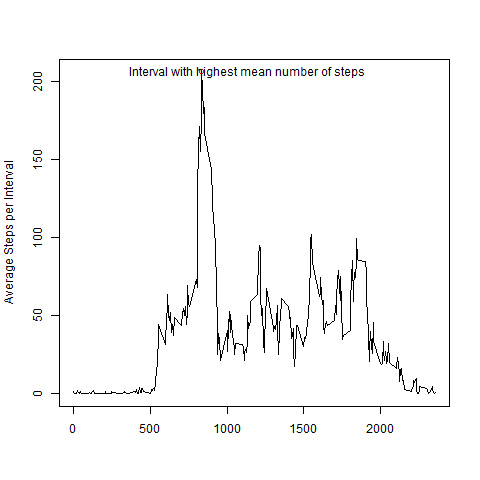
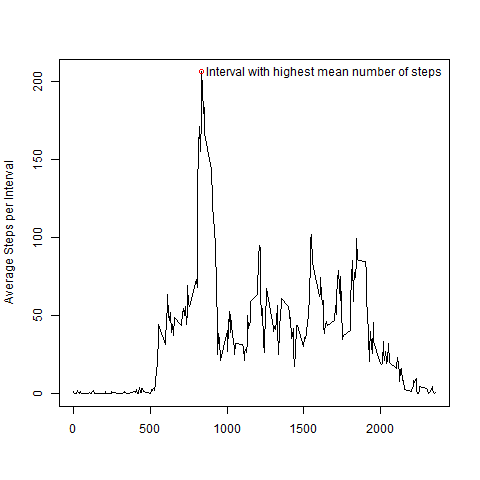
update

Changed region(s): [[0.25, 0.125, 0.9375, 0.1562]]

diff --git a/PA1_template.html b/PA1_template.html
@@ -112,12 +112,17 @@ img {
 
   x &lt;- subset(mydata2,is.na(mydata2$steps))
 
-  mydata3 &lt;- subset(mydata2,!is.na(mydata2$steps))</code></pre>
+  ##count the number of NA values 
+  stepNA &lt;- nrow(x)
+
+  cat(stepNA, &quot; observations are NA step values&quot;)</code></pre>
+<pre><code>## 2304  observations are NA step values</code></pre>
+<pre class="r"><code>  mydata3 &lt;- subset(mydata2,!is.na(mydata2$steps))</code></pre>
 </div>
 <div id="what-is-mean-total-number-of-steps-taken-per-day" class="section level2">
 <h2>What is mean total number of steps taken per day?:</h2>
 <p>Sum the steps by date and calculate the mean and median.</p>
-<p>Note: In the first set of results are shown for only the populated observations.</p>
+<p>Note: In this set of results, only the populated observations are included in plots and calcs.</p>
 <pre class="r"><code>##use data with only populated step data and group by date
 DFGroupDate &lt;- group_by(mydata3, date)
 ##calculate the total for each date
@@ -130,17 +135,17 @@ DFResultDate &lt;- summarise(DFGroupDate,Mean = mean(steps), SUM = as.numeric(su
 <div class="figure">
[1 lines of base64/hex data omitted]
 </div>
+<p>Figure 1. Histogram of total steps per day, with the calculated means and medians below</p>
 <pre class="r"><code>  cat(&quot;The mean daily total = &quot;, round(stepMean))</code></pre>
 <pre><code>## The mean daily total =  10766</code></pre>
 <pre class="r"><code>  cat(&quot;The median daily total = &quot;, round(stepMedian))</code></pre>
 <pre><code>## The median daily total =  10765</code></pre>
-<p>Figure 1. Histogram of total steps per day, with the calculated means and medians</p>
 <pre><code>## png 
 ##   2</code></pre>
 </div>
 <div id="what-is-the-average-daily-activity-pattern" class="section level2">
 <h2>What is the average daily activity pattern?</h2>
-<p>Group the step observations by intervals</p>
+<p>Group the step observations by intervals and calculate the means</p>
 <pre class="r"><code>##use data with only populated step data and group by interval
 
   DFGroupInt&lt;- group_by(mydata3, interval)
@@ -151,24 +156,17 @@ DFResultDate &lt;- summarise(DFGroupDate,Mean = mean(steps), SUM = as.numeric(su
 
 ##identify the interval with the highest mean 
   stepMax &lt;- max(DFResultInt$Mean)
-  stepPoint &lt;- subset(DFResultInt, Mean == stepMax)
-
-##count the number of NA values 
-  stepNA &lt;- nrow(x)
-  #  cat(stepNA, &quot; observations are NA step values&quot;)</code></pre>
-<pre class="r"><code>  par(mar = rep(2, 4))
-
-  plot(x=DFResultInt$interval, y=DFResultInt$Mean, type = &quot;l&quot;, xlab = &quot; &quot;, ylab = &quot;Average Steps per Interval&quot;)
-
-  points(x=stepPoint$interval, y=stepPoint$Mean, col = &quot;red&quot;, type =&quot;p&quot;)
-  text(x=stepPoint$interval + 300, y=stepPoint$Mean,&quot;Interval with highest mean number of steps&quot;)</code></pre>
-<div class="figure">
[1 lines of base64/hex data omitted]
-</div>
-<pre class="r"><code>  cat(&quot;Interval number &quot;, stepPoint$interval, &quot; had the highest mean of &quot;, stepMax)</code></pre>
-<pre><code>## Interval number  835  had the highest mean of  206.1698</code></pre>
+  stepPoint &lt;- subset(DFResultInt, Mean == stepMax)</code></pre>
 <p>Figure 2. The line graph of average steps per interval</p>
-<p>Note:Intervals translate to 5 minute increments using 24:00 clock, eg, 835 = 08:35, 1000 = 10:00, 2350 = 23:50</p>
+<pre class="r"><code>  par(mar = rep(2, 4))
+  plot(x=DFResultInt$interval, y=DFResultInt$Mean, type = &quot;l&quot;, xlab = &quot;Intervals&quot;, ylab = &quot;Average Steps per Interval&quot;)
+    points(x=stepPoint$interval, y=stepPoint$Mean, col = &quot;red&quot;, type =&quot;p&quot;)
+    text(x=stepPoint$interval + 800, y=stepPoint$Mean,&quot;Interval with highest mean number of steps&quot;)</code></pre>
+<div class="figure">
[1 lines of base64/hex data omitted]
+</div>
+<p>Note: Intervals translate to 5 minute increments using the 24:00 clock, eg, 835 = 08:35, 1000 = 10:00, 2350 = 23:50</p>
+<pre><code>## Interval number  835  had the highest mean of  206</code></pre>
 <pre><code>## png 
 ##   2</code></pre>
 </div>
@@ -190,20 +188,30 @@ DFResultDate &lt;- summarise(DFGroupDate,Mean = mean(steps), SUM = as.numeric(su
 
   stepMeanComp &lt;-mean(DFResultDateComp$SUM)
   stepMedianComp &lt;-median(DFResultDateComp$SUM)</code></pre>
-<p>Figure 3.</p>
 <pre><code>## png 
 ##   2</code></pre>
-<pre><code>## Updated results after filling in the data:</code></pre>
+<p>Figure 3. Histogram of total steps per day, with NA values imputed</p>
+<pre class="r"><code>  hist(DFResultDateComp$SUM, xlab = &quot;Number of Steps per Day&quot;, ylab = &quot;Frequency&quot;, col = &quot;red&quot;, main = &quot;Histogram of Daily Step Total (completed data)&quot;)</code></pre>
+<div class="figure">
[1 lines of base64/hex data omitted]
+</div>
+<pre class="r"><code>  cat(&quot;Updated results after imputing missing data:&quot;)</code></pre>
+<pre><code>## Updated results after imputing missing data:</code></pre>
+<pre class="r"><code>  cat(&quot;  The mean daily average = &quot;, round(stepMeanComp))</code></pre>
 <pre><code>##   The mean daily average =  10766</code></pre>
+<pre class="r"><code>  cat(&quot;  The median daily average = &quot;, round(stepMedianComp))</code></pre>
 <pre><code>##   The median daily average =  10766</code></pre>
+<pre class="r"><code>  cat(&quot;  &quot;)</code></pre>
+<pre class="r"><code>  cat(&quot;The difference from prior calcualtions:&quot;)</code></pre>
 <pre><code>## The difference from prior calcualtions:</code></pre>
+<pre class="r"><code>  cat(&quot;  The new mean - prior mean =&quot;, stepMeanComp -stepMean)</code></pre>
 <pre><code>##   The new mean - prior mean = 0</code></pre>
+<pre class="r"><code>  cat(&quot;  The new median - prior median =&quot;, stepMedianComp -stepMedian)</code></pre>
 <pre><code>##   The new median - prior median = 1.188679</code></pre>
 </div>
 <div id="are-there-differences-in-activity-patterns-between-weekdays-and-weekends" class="section level2">
 <h2>Are there differences in activity patterns between weekdays and weekends?:</h2>
 <p>Next the filled in data set is grouped by weekday vs weekend and interval to produce a panel plot comparing the interval averages for weekend vs weekday.</p>
-<p>Figure 4.</p>
 <pre class="r"><code>  DFGroupIntW&lt;- group_by(DFStepsComp, interval, wkdy)
 
   DFResultIntW &lt;- summarise(DFGroupIntW,Mean = mean(steps), SUM = as.numeric(sum(steps)), MAX = as.numeric(max(steps)))
@@ -211,10 +219,12 @@ DFResultDate &lt;- summarise(DFGroupDate,Mean = mean(steps), SUM = as.numeric(su
 library(lattice)</code></pre>
 <pre><code>## png 
 ##   2</code></pre>
+<p>Figure 4. Mean Steps Weekend vs Weekday Intervals</p>
 <pre class="r"><code>xyplot( Mean ~ interval | wkdy, type = 'b', panel = function(x, y) { llines(x=x,y=y) }, data = DFResultIntW, main = &quot;Steps by Interval Weekend vs Weekday&quot;, xlab = &quot;Intervals&quot;, ylab = &quot;Mean Steps per Interval&quot;, layout=(c(1,2)))</code></pre>
 <div class="figure">
[1 lines of base64/hex data omitted]
 </div>
+<p>Note: Intervals translate to 5 minute increments using the 24:00 clock, eg, 835 = 08:35, 1000 = 10:00, 2350 = 23:50</p>
 <p>The data set was filled in using interval means; a future enhancement would be to fill in missing data using interval means plus weekday factor.</p>
 </div>
 
